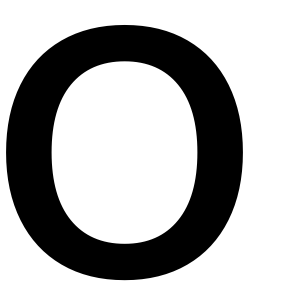
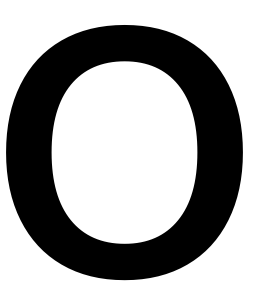
Janky but working version.

diff --git a/voidwriter/src/index.js b/voidwriter/src/index.js
@@ -18,14 +18,15 @@ class Glyph extends React.Component {
   }
   
   updateCanvas() {
-    this.state.ctx = this.refs.canvas.getContext('2d');
+    let newState = {
+      ctx: this.refs.canvas.getContext('2d'),
+      images: [],
+      images_to_load: -1,
+    };
     
     let str = this.props.value;
     let chars = str.split("");
     let letter_main = chars[0];
-    let letter_mid = chars.length > 1 ? chars[1] : " ";
-    let letter_sup = chars.length > 2 ? chars[2] : " ";
-    let letter_sub = chars.length > 3 ? chars[3] : " ";
 
     const path = "images/";
     const suffix = ".png";
@@ -33,65 +34,86 @@ class Glyph extends React.Component {
     let imageCount = 1;
     let paths = [];
     paths[0] = path + letter_main + "main" + suffix;
-    if (chars.length > 1 && ' ' != chars[1]) {
-      paths[1] = path + letter_main + "mid" + chars[1] + suffix;
-      ++imageCount;
+    for (let ix = 1; ix < chars.length; ++ix) {
+      if (chars.length > ix && ' ' !== chars[ix]) {
+        paths[ix] = path + letter_main + ix + chars[ix] + suffix;
+        ++imageCount;
+      }
     }
-    if (chars.length > 2 && ' ' != chars[2]) {
-      paths[2] = path + letter_main + "sup" + chars[2] + suffix;
-      ++imageCount;
-    }
-    if (chars.length > 3 && ' ' != chars[3]) {
-      paths[3] = path + letter_main + "sub" + chars[3] + suffix;
-      ++imageCount;
-    }
-    this.state.images_to_load = imageCount;
-
-    let state = this.state;
+    newState.images_to_load = imageCount;
     
-    for (let i = 0; i < 4; ++i) {
+    for (let i = 0; i < chars.length; ++i) {
       if (paths[i]) {
         let newImg = new Image();
         newImg.src = paths[i];
-        this.state.images[i] = newImg;
+        newState.images[i] = newImg;
         newImg.onload = function() {
-          state.images_to_load -= 1;
-          if (state.images_to_load <= 0) {
-            for (let i = 0; i < 4; ++i) {
-              if (null != state.images[i]) {
-                state.ctx.drawImage(state.images[i], 0, 0);
+          // *** onload handler
+          newState.images_to_load -= 1;
+          if (newState.images_to_load <= 0) {
+            let w = -1;
+            let h = -1;
+            // Determine total width and height of all images.
+            for (let ii = 0; ii < chars.length; ++ii) {
+              if (null != newState.images[i]) {
+                w = Math.max(w, newState.images[i].width);
+                h = Math.max(h, newState.images[i].height);
+              }
+            }
+
+            // Resize the canvas.
+            newState.ctx.canvas.width = w;
+            newState.ctx.canvas.height = h;
+
+            // Draw images into canvas.
+            for (let jj = 0; jj < chars.length; ++jj) {
+              if (null != newState.images[jj]) {
+                newState.ctx.drawImage(newState.images[jj], 0, 0);
               }
             }
           }
+          // *** onload handler end
         }
       }
     }
+
+    this.setState(newState);
   }
   
   render() {
-    const CANVAS_WIDTH = 200;
-    const CANVAS_HEIGHT = 200;
-    
+    // These 1s are replaced with the real dimensions once all the images are loaded.
     return (
-      <canvas ref="canvas" width={300} height={300}> </canvas>
+      <canvas ref="canvas" width={1} height={1}> </canvas>
     );
   }
 }
 
+var nextGlyphKey = 0;
+
 class GlyphContainer extends React.Component {
+  constructor(props) {
+    super(props);
+  }
+  
   render() {
+
+    //let input = "o, oi, o v, oiv, o  d, oi d, o vd, oivd";
+    let input = this.props.value;
+    
+    let inputArray = input.split(',');
+    
+    let glyphArray = [];
+    for (let i = 0; i < inputArray.length; ++i) {
+      // Remove leading and trailing whitespace.
+      inputArray[i] = inputArray[i].trim();
+      
+      let key = "glyph_"+(nextGlyphKey++);
+      glyphArray[i] = <Glyph key={key} value={inputArray[i]} />
+    }
+    
     return (
       <div>
-        <hr />
-          <Glyph value="o" />
-          <Glyph value="oi"/>
-          <Glyph value="o v" />
-          <Glyph value="oiv"/>
-          <Glyph value="o  d" />
-          <Glyph value="oi d" />
-          <Glyph value="o vd" />
-          <Glyph value="oivd" />
-        <hr />
+        {glyphArray}
       </div>
     );
   }
@@ -99,15 +121,26 @@ class GlyphContainer extends React.Component {
 
 
 class Game extends React.Component {
+
+  constructor(props) {
+    super(props);
+    this.state = {text: ""};
+
+    this.onTextChanged = this.onTextChanged.bind(this);
+  }
+  
+  onTextChanged(event) {
+    this.setState({text: event.target.value})
+  }
+  
   render() {
     return (
       <div className="game">
         <h1>VOiD Writer</h1>
-        <hr></hr>
-        Write text here:
-        <textarea id='input_textarea' defaultValue='o,oi,oiv,oivd'></textarea>
+        Write text here. Separate each glyph with a comma.
+        <textarea id='input_textarea' defaultValue='o,oi,oiv,oivd' onChange={this.onTextChanged}></textarea>
         <div className="glyph-container">
-          <GlyphContainer />
+          <GlyphContainer value={this.state.text}/>
         </div>
       </div>
     );

diff --git a/voidwriter/src/index.css b/voidwriter/src/index.css
@@ -25,3 +25,15 @@ ol, ul {
 .image {
   position:absolute;
 }
+
+textarea
+{
+    width: 100%;
+    height: 20vh;
+    resize:none;
+    padding: 0;
+
+    -webkit-box-sizing: border-box; /* Safari/Chrome, other WebKit */
+    -moz-box-sizing: border-box;    /* Firefox, other Gecko */
+    box-sizing: border-box;         /* Opera/IE 8+ */
+}
